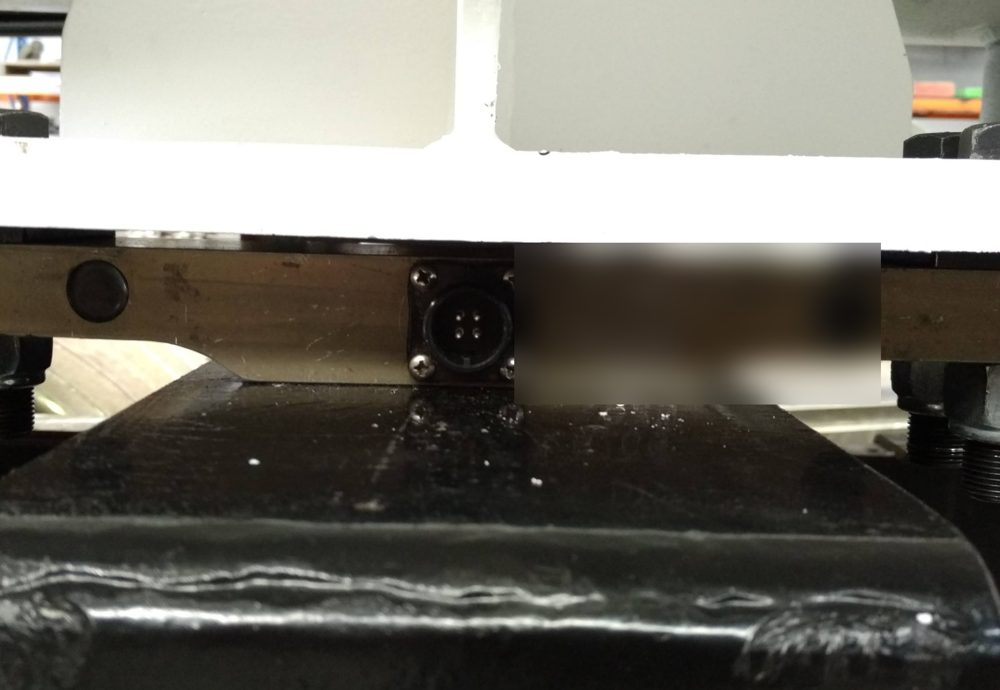
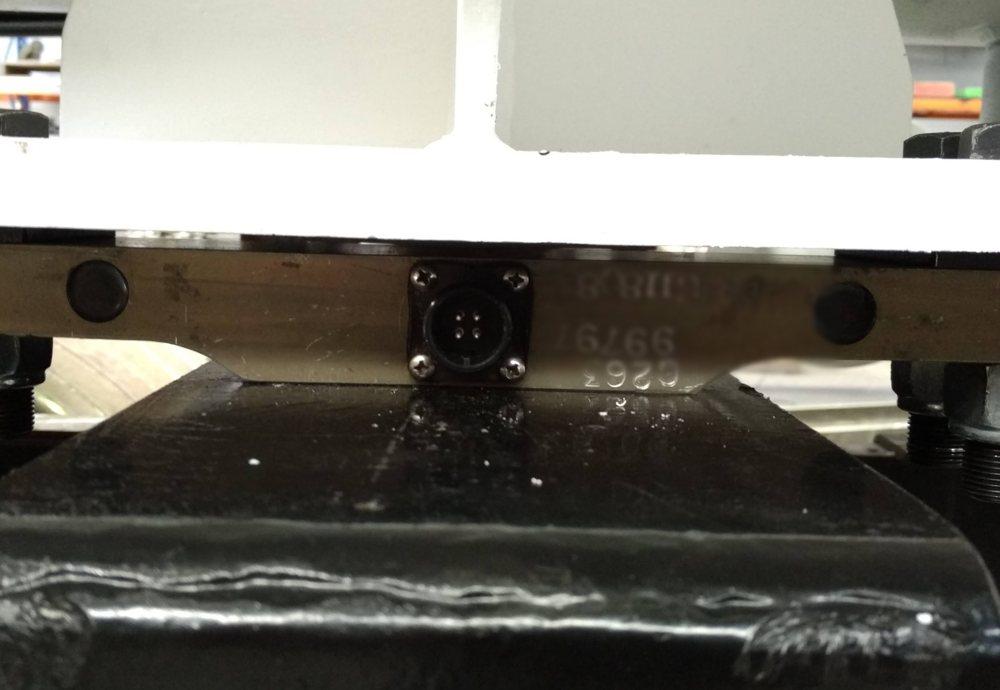
Add files via upload

diff --git a/index.html b/index.html
@@ -46,7 +46,7 @@ nav a.login:hover{background:var(--btn);color:#fff}
 .hero:after{width:380px;height:380px;left:-140px;bottom:-230px}
 .hero .wrap{position:relative;padding-top:84px;padding-bottom:84px}
 .hero h1{font-size:clamp(2rem,5vw,3.2rem);line-height:1.15;margin:0 0 18px;max-width:16em}
-.hero p{font-size:1.15rem;color:#cfdedd;max-width:36em;margin:0 0 28px}
+.hero p{font-size:1.15rem;color:#cfdedd;max-width:36em;margin:0}
 .btn{display:inline-block;background:var(--btn);color:#fff;padding:13px 26px;border-radius:10px;text-decoration:none;font-weight:600;border:1px solid #3a6b5d}
 .btn:hover{background:#2d5a4d}
 section{padding:64px 0}
@@ -90,32 +90,32 @@ footer .badge img{height:26px}
 
 <main id="top">
 <div class="hero"><div class="wrap">
-<h1>Sensing you can trust, live.</h1>
-<p>Temperature, air quality and weight monitoring for commercial cool rooms and industry, with the data where you need it.</p>
-<a class="btn" href="#contact">Talk to us</a>
+<h1>Live sensing you can trust.</h1>
+<p>Temperature and air quality monitoring for commercial cool rooms and plant, plus live weights and measures for commercial and industrial applications.</p>
 </div></div>
 
 <section id="what"><div class="wrap">
 <h2>What we do</h2>
 <p class="lead">We design, install and support sensing systems that keep an eye on things so you do not have to.</p>
 <div class="grid">
-<div class="card"><h3>Cool room temperature</h3><p>Continuous temperature monitoring for commercial cool rooms and cold storage, with alerts when something drifts.</p></div>
-<div class="card"><h3>Air monitoring</h3><p>Air quality sensing for commercial and industrial spaces, logged and visible live.</p></div>
+<div class="card"><h3>Temperature</h3><p>Live temperature monitoring for commercial cool rooms and plant, with alerts when something drifts.</p></div>
+<div class="card"><h3>Air quality</h3><p>Live air quality monitoring for commercial and industrial sites.</p></div>
+<div class="card"><h3>Live weights and measures</h3><p>Load cell weighing and measurement for trucks, tanks, hoppers and process equipment, in real working conditions.</p></div>
+<div class="card"><h3>Workplace Exposure Limits (WEL)</h3><p>Air monitoring that helps you track exposure against Workplace Exposure Limits, so you can see when levels are approaching a limit.</p></div>
 <div class="card"><h3>IoT</h3><p>Connected sensors and dashboards, so readings and alarms reach your phone or computer from anywhere.</p></div>
 <div class="card"><h3>PLC and control</h3><p>Programmable controller systems that read your sensors and run your equipment reliably.</p></div>
-<div class="card"><h3>Live load weights</h3><p>Load cell weighing and measurement for trucks, tanks, hoppers and process equipment, in real working conditions.</p></div>
 </div>
 </div></section>
 
 <section id="industrial" class="alt"><div class="wrap">
-<h2>Industrial applications</h2>
+<h2>Commercial and industrial applications</h2>
 <p class="lead">Built for plant floors, not just labs.</p>
 <div class="split">
 <img src="load-cell-mounted-under-vessel.jpg" alt="Load cell mounted under a process vessel support for live weighing" loading="lazy">
 <div>
 <h3>Weighing and measuring</h3>
-<p>Load cells under vessels and structures give a live weight you can use for inventory, batching and process control.</p>
-<ul class="tick"><li>Live weight readings into your PLC or dashboard</li><li>Rugged installs that cope with wet and dirty sites</li><li>Calibrated and tested on commissioning</li></ul>
+<p>Load cells under trucks, vessels and structures give a live weight you can use for roadworthiness, inventory, batching and process control and live commodity tracking.</p>
+<ul class="tick"><li>Live weight readings into your PLC or dashboard</li><li>Built for almost any environment</li><li>Calibrated and tested on commissioning</li></ul>
 </div>
 </div>
 <div class="pair">
